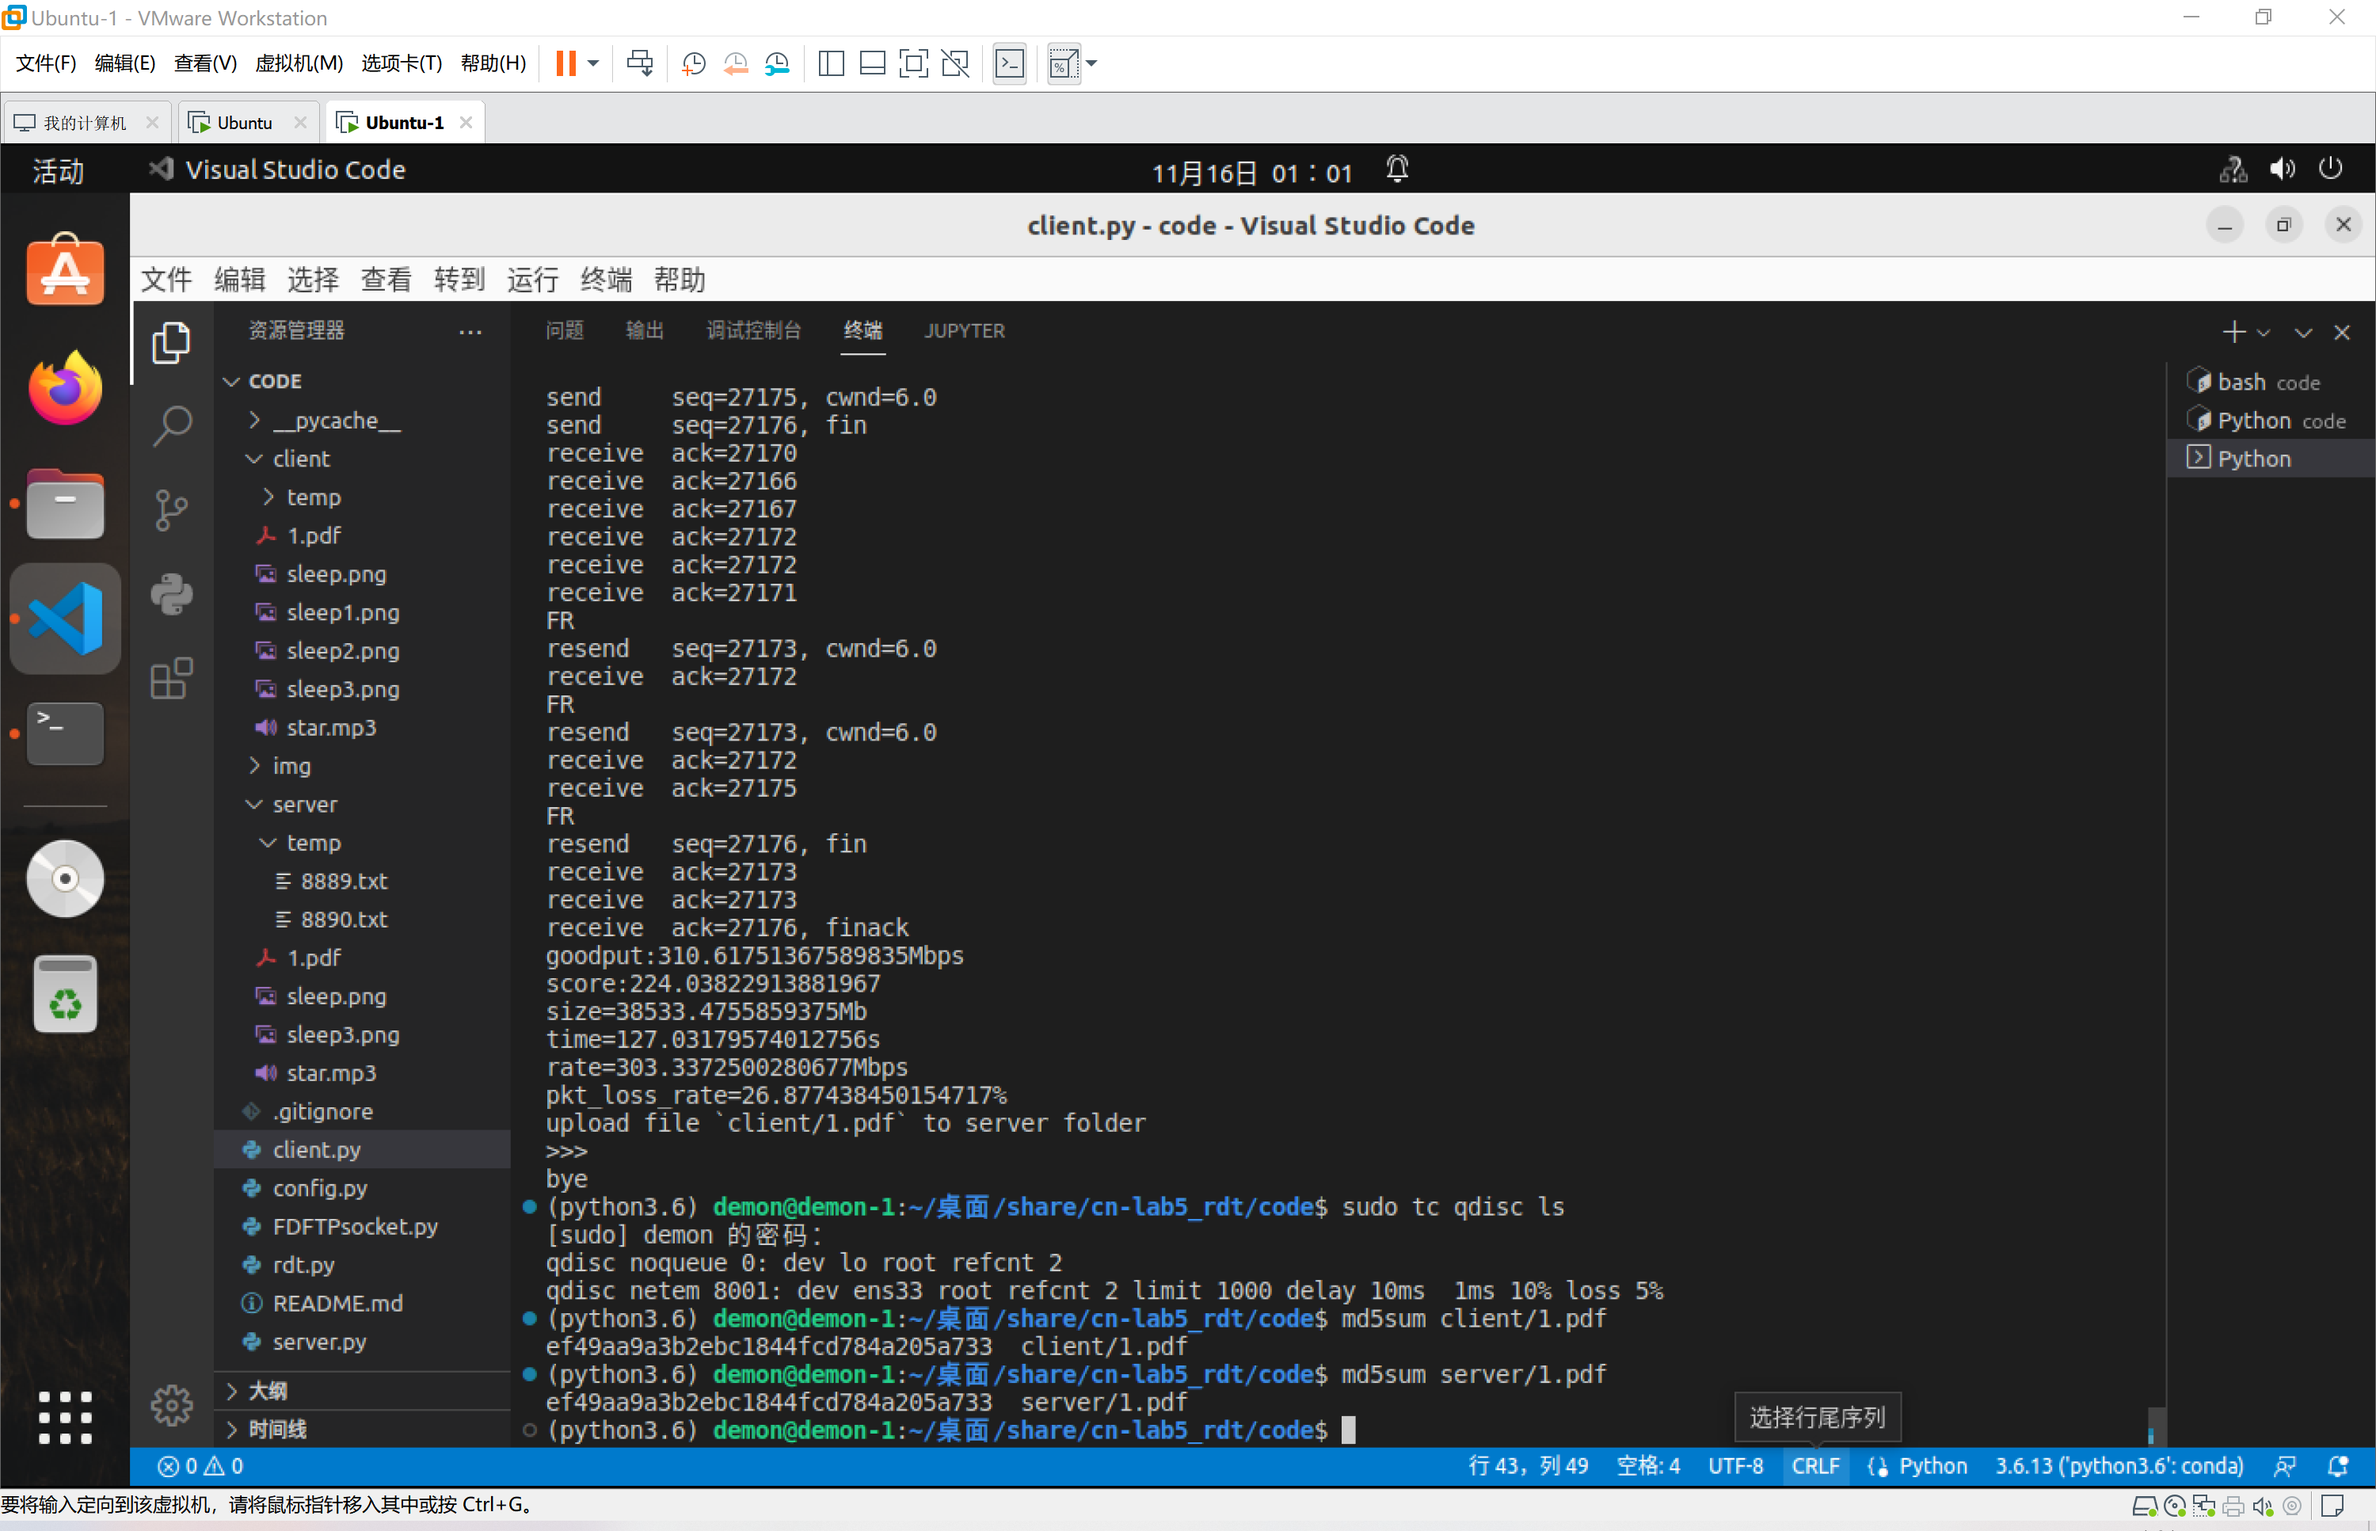
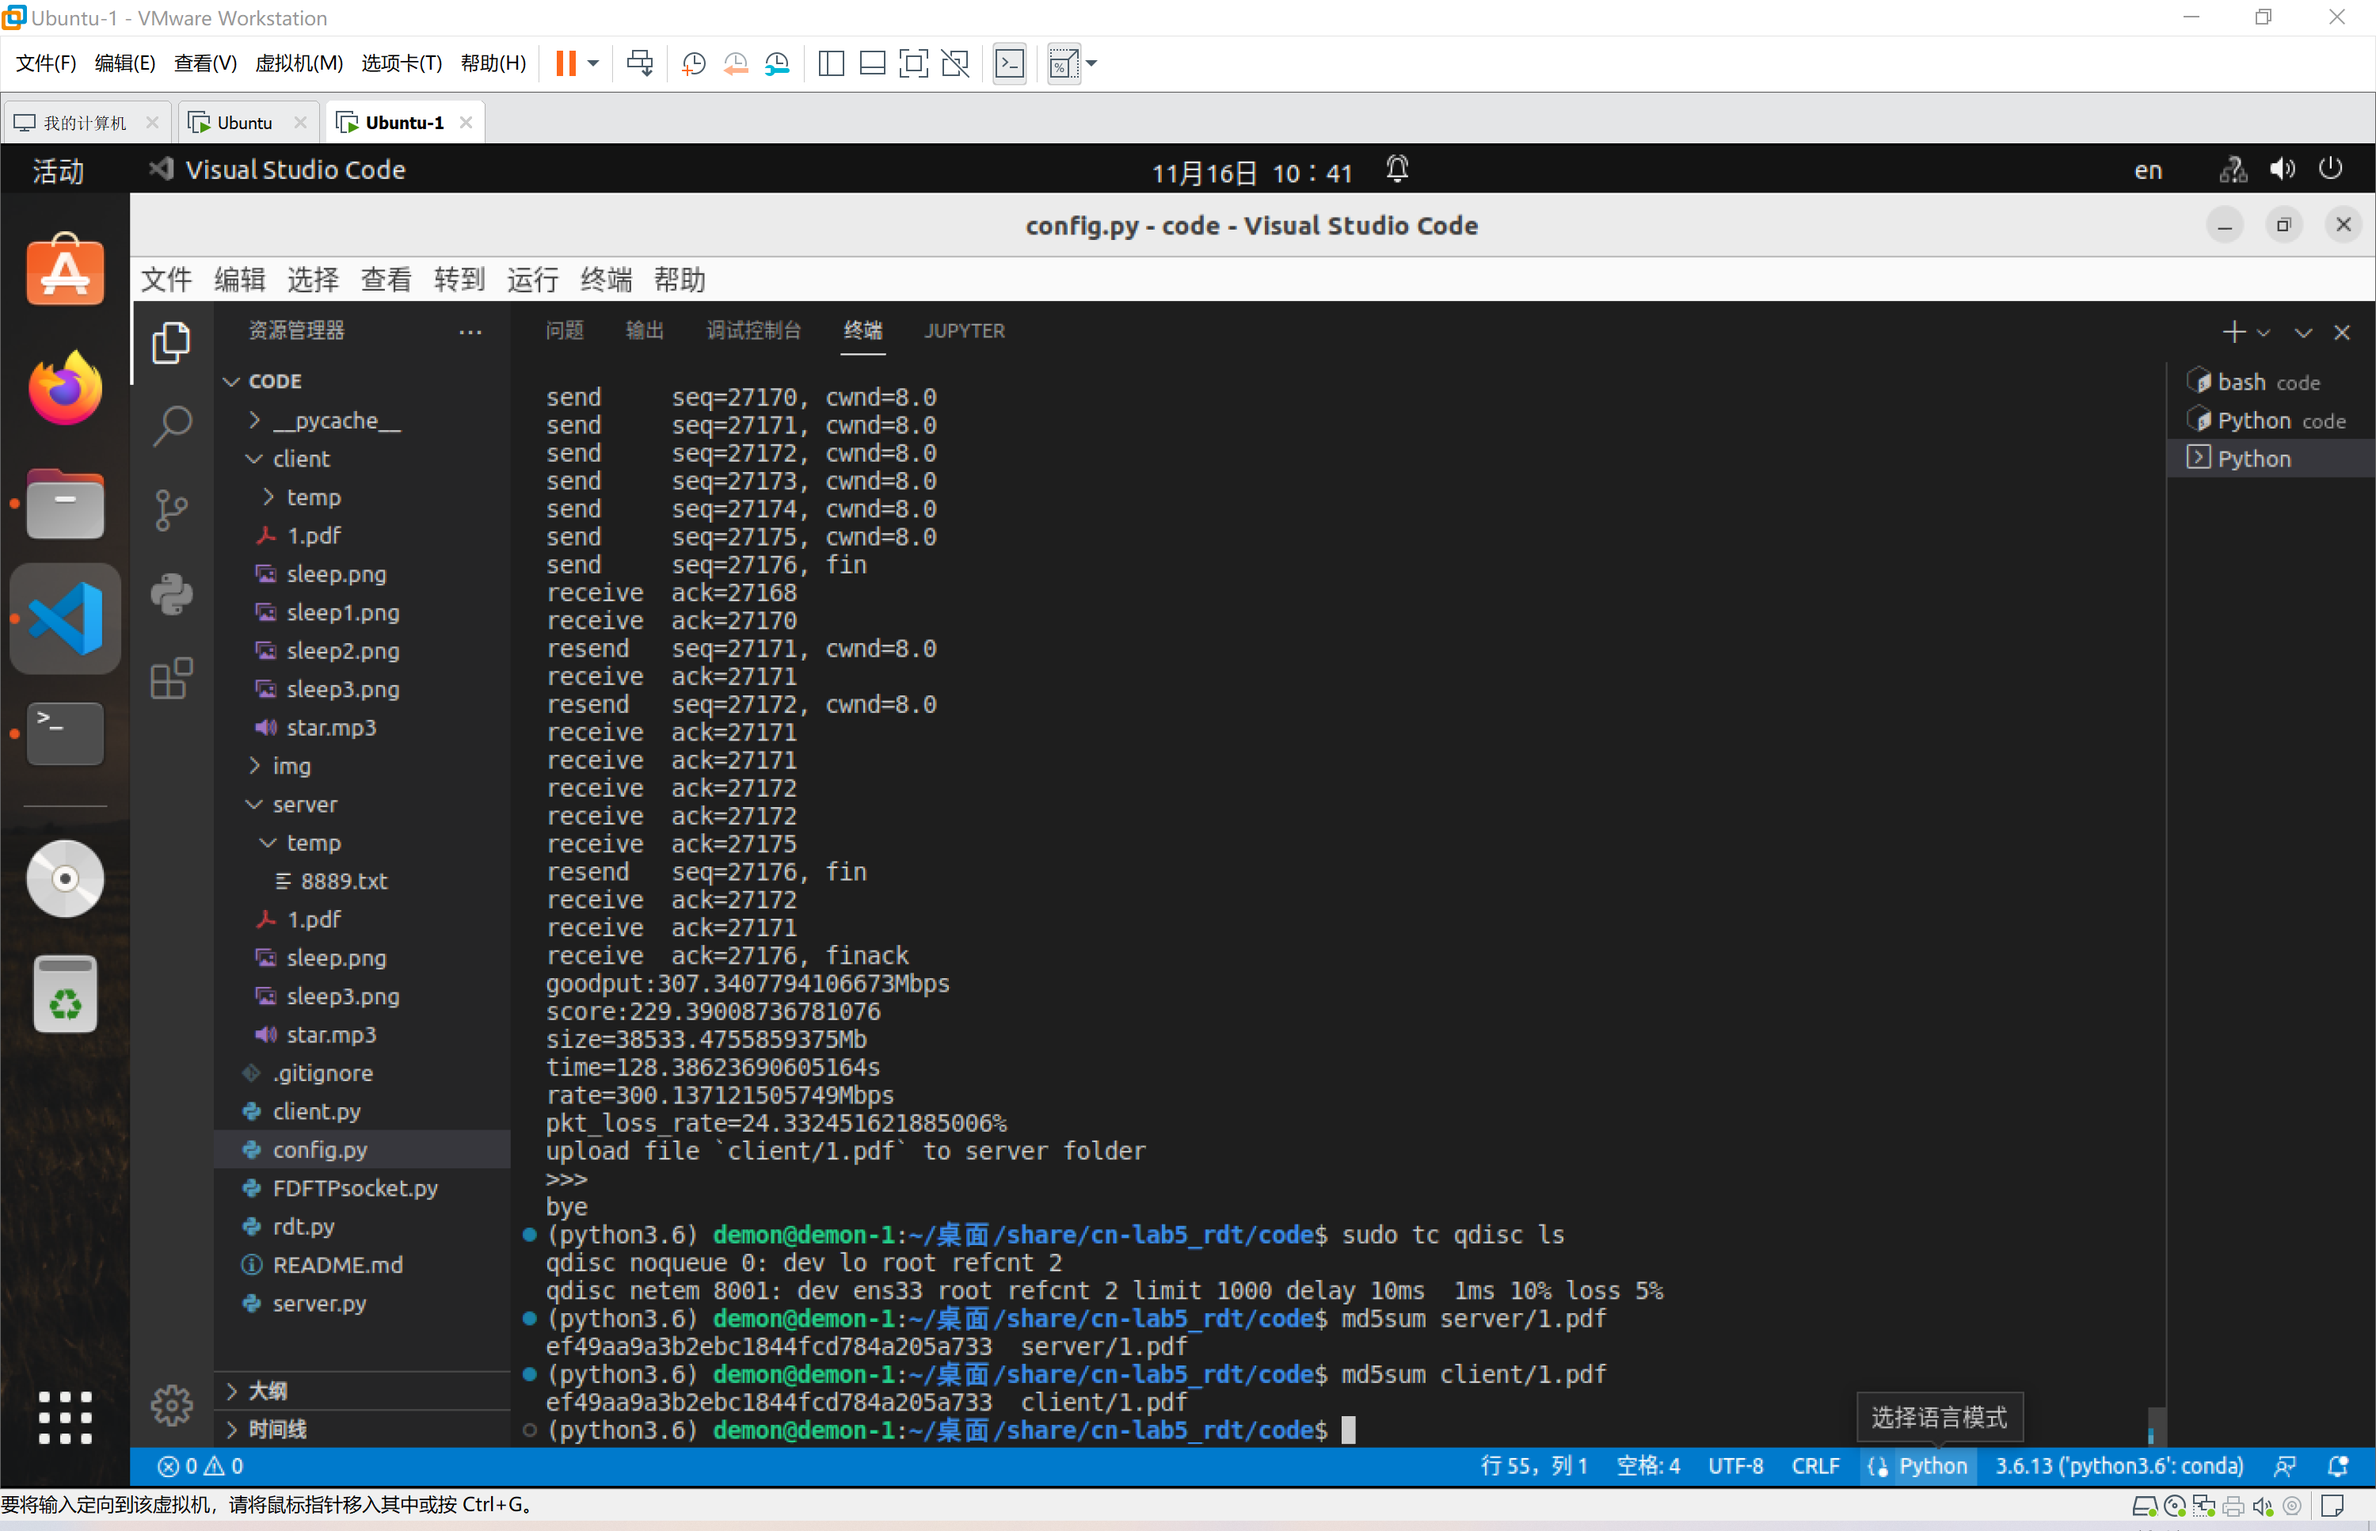
update to TCP-NewReno

diff --git a/rdt.py b/rdt.py
@@ -46,21 +46,17 @@ class rdt:
         '''sender: send packets inside cwnd, GBN if timeout'''
         while not self.disconnect:
             with self.lock:
-                send_now = False
                 # send all packets
                 if self.PACKETS_NUM < self.send_base: 
                     break
-                # fast retransmit
-                if self.fast_retransmit:
-                    self.fast_retransmit = False
-                    send_now = True # fast retransmit
-                    if DEBUG: print(f'FR')
                 # timeout
                 if CONG_TIMEOUT < (time.time() - self.timer):
+                    self.dulplicate_ack = 0
                     self.ssthresh = max(float(math.floor(self.cwnd / 2)), 1.0)
                     self.cwnd = 1.0
+                    self.send_state = SS
                     self.nextseqnum = self.send_base
-                    send_now = True # retransmit
+                    self.send_now = True # retransmit
                     self.timer = time.time()
                     if DEBUG: print(f'timeout  ssthresh={self.ssthresh}')
                 # send packet
@@ -72,9 +68,9 @@ class rdt:
                         else:
                             self.send_buffer.append(self.__rdt_send(MSS))
                         self.bufferedseqnum = self.nextseqnum
-                        send_now = True # new pkt
+                        self.send_now = True # new pkt
                     # send packet
-                    if send_now:
+                    if self.send_now:
                         payload = self.send_buffer[self.nextseqnum - self.send_base]
                         if self.nextseqnum == self.PACKETS_NUM:
                             sndpkt = self.make_pkt(length=self.LAST_PACKET_SIZE, seq=self.nextseqnum, isfin=1, data=payload)
@@ -100,6 +96,7 @@ class rdt:
                             else:
                                 if DEBUG: print(f'resend   seq={self.nextseqnum}, cwnd={self.cwnd}')
                                 self.resend += 1
+                        self.send_now = False # cancel next
                     # move next
                     self.nextseqnum += 1
 
@@ -112,44 +109,47 @@ class rdt:
                 with self.lock:
                     if isfin == 0:
                         if DEBUG: print(f'receive  ack={ack}')
-                        # fast retransmit
+                        # invalid ack
                         if ack < self.send_base - 1:
                             pass
-                        elif ack < self.send_base:
+                        # dulplicate ack
+                        elif ack == self.send_base - 1:
                             self.dulplicate_ack += 1
+                            # fast retransmit
                             if self.dulplicate_ack == 3:
                                 self.ssthresh = max(float(math.floor(self.cwnd / 2)), 1.0)
                                 self.cwnd = self.ssthresh + 3.0
+                                self.send_state = FR
                                 self.nextseqnum = self.send_base
-                                self.fast_retransmit = True
+                                self.send_now = True # fast_retransmit
                                 self.timer = time.time()
                             if self.dulplicate_ack > 3:
                                 self.cwnd += 1.0
                                 if self.cwnd > RWND: 
                                     self.cwnd = float(RWND)
                                 self.timer = time.time()
-                        # partial ack
-                        elif self.send_base <= ack and ack < self.send_base + self.cwnd - 1:
-                            self.dulplicate_ack = 1
-                            gap = ack - self.send_base + 1
-                            self.send_base = self.send_base + gap
-                            self.nextseqnum = self.send_base
-                            del self.send_buffer[0:gap]
-                            self.fast_retransmit = True
-                            self.timer = time.time()
-                        # complete ack
+                        # valid ack
                         else:
-                            self.dulplicate_ack = 1
+                            if self.send_state == FR:
+                                # partial ack
+                                if ack < self.send_base + int(self.cwnd) - 1:
+                                    self.send_now = True
+                                # complete ack
+                                else:
+                                    self.cwnd = self.ssthresh
+                                    self.send_state = CA
+                            self.dulplicate_ack = 0
                             gap = ack - self.send_base + 1
                             self.send_base = self.send_base + gap
                             self.nextseqnum = self.send_base
                             del self.send_buffer[0:gap]
-                            self.cwnd = self.ssthresh
                             for i in range(gap):
-                                if self.cwnd < self.ssthresh:
-                                    self.cwnd += 1.0
-                                else:
+                                if self.send_state == CA:
                                     self.cwnd += 1.0 / self.cwnd
+                                elif self.send_state == SS:
+                                    self.cwnd += 1.0
+                                    if self.cwnd > self.ssthresh:
+                                        self.send_state = CA
                                 if self.cwnd > RWND: 
                                     self.cwnd = float(RWND)
                             self.timer = time.time()
@@ -246,9 +246,10 @@ class rdt:
         # congestion control
         self.ssthresh = CONG_DEFALUT_SSTHRESH
         self.cwnd = 1.0
-        self.dulplicate_ack = 1
+        self.dulplicate_ack = 0
+        self.send_state = SS
         # semaphores and lock between 2 thead
-        self.fast_retransmit = False # sem
+        self.send_now = False # sem
         self.disconnect = False # sem
         self.lock = threading.Lock() # lock
         # send pkts and receive acks

diff --git a/config.py b/config.py
@@ -14,12 +14,12 @@ BUFSIZE = 2048
 '''client'''
 # client ip
 # CLIENT_IP = 'localhost'
-CLIENT_IP = '10.219.150.142'
+CLIENT_IP = '192.168.50.67'
 
 '''server'''
 # server ip
 # SERVER_IP = 'localhost'
-SERVER_IP = '10.219.226.57'
+SERVER_IP = '192.168.50.10'
 # welcome socket port
 # connection socket will increase from this
 # it's set casually on available port in the computer
@@ -30,6 +30,10 @@ SERVER_PORT = 8888
 CLIENT_TIMEOUT = 666
 
 '''sender'''
+# states of sender
+SS = 1
+CA = 2
+FR = 3
 # retransmission time
 # if the network is bad, set it smaller
 # the better practice is to measure RTT and set dynamically
@@ -46,9 +50,8 @@ CONG_DEFALUT_SSTHRESH = 10.0
 # ref: https://blog.csdn.net/qq_44404509/article/details/109467181
 # abstract: it should be less than 65535 / MSS ≈ 43, 
 #           or file.write() will envoke [Errno 5] Input/output error
-# if the network is bad, set it smaller
-# it's set casually
-RWND = 36
+# it's set casually, of course, the bigger, the better, only if < 44
+RWND = 43
 
 '''debug'''
 # print some info during rdt transfer

diff --git a/README.md b/README.md
@@ -203,7 +203,7 @@
 
 ### 3.2.1 功能更新
 
-- TCP-Reno变为TCP-NewReno, 区分partial ack和complete ack
+- TCP-Reno变为TCP-NewReno, 区分partial ack和complete ack,  利用状态机解决细节问题
 
 ### 3.1.2 测试
 
@@ -219,11 +219,11 @@
 - 由md5sum得知文件传送无误, 且其性能参数提取如下
 
   ```plain
-  goodput:310.61751367589835Mbps
-  score:224.03822913881967
+  goodput:295.6303614028556Mbps
+  score:219.17902256557463
   ```
 
-- 对比第一次迭代，综合性能提升了70倍左右
+- 对比第一次迭代，综合性能提升了60倍左右
 
 ## 3.3 TODO
 
